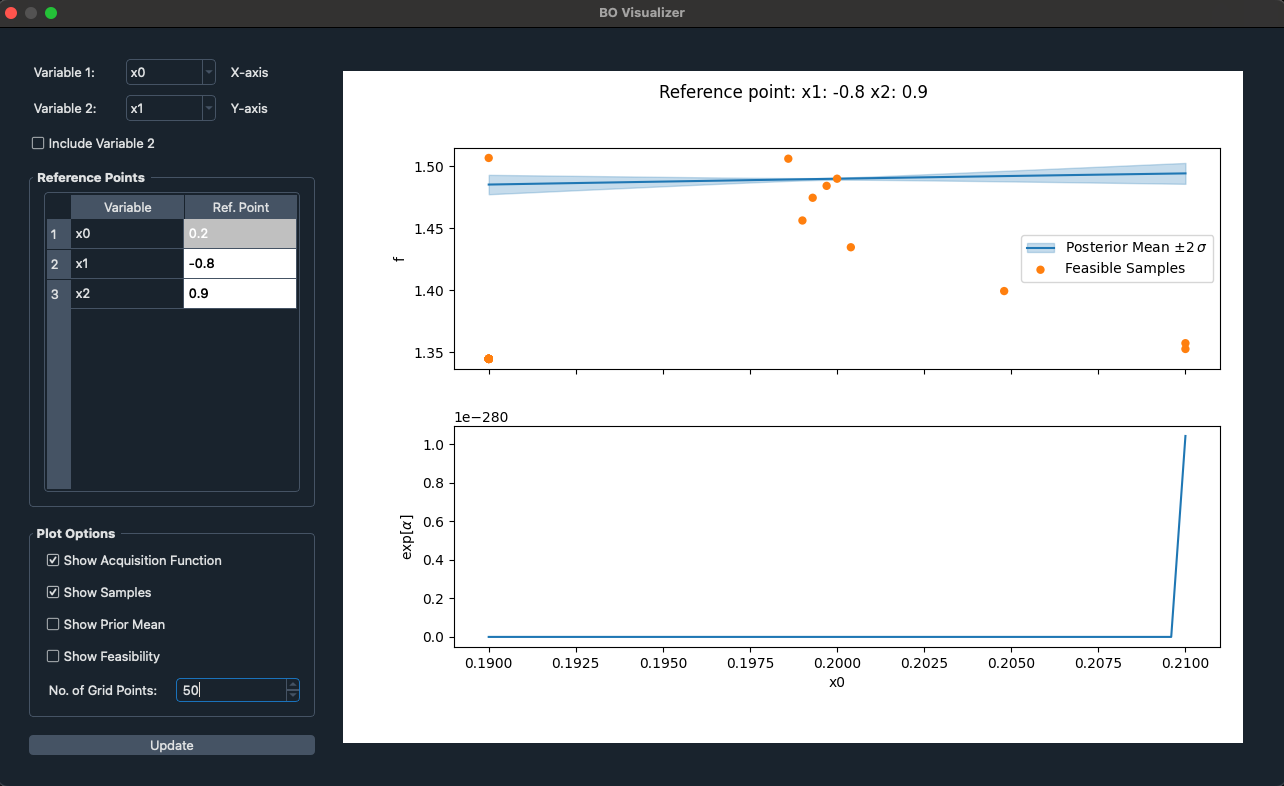
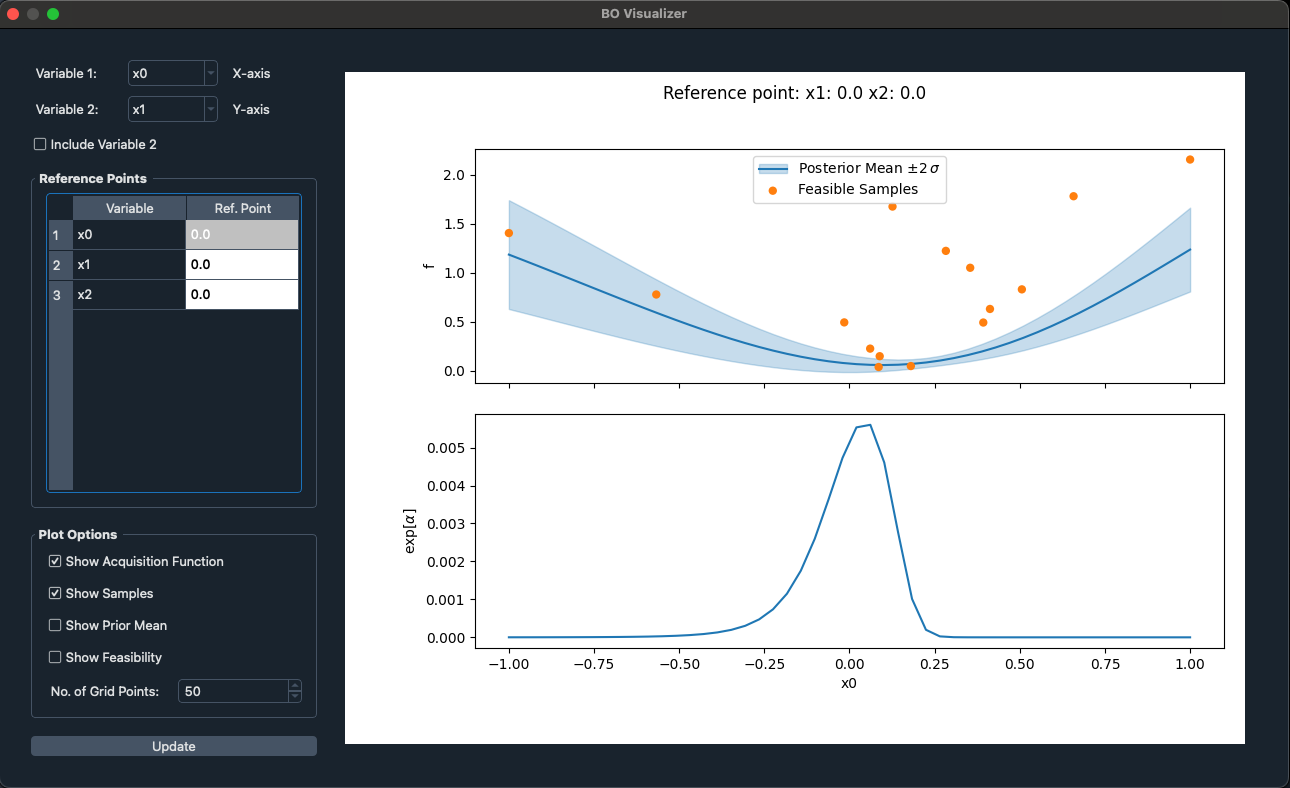
Expanded variable ranges to show curvature within images

diff --git a/src/badger/gui/default/components/bo_visualizer/docs/README.md b/src/badger/gui/default/components/bo_visualizer/docs/README.md
@@ -27,7 +27,7 @@ Description:
     Note: not all extensions are applicable to every optimization configuration
 3 - Access the BO Visualization extension by clicking the corresponding option within the Badger extensions palette
 
-![bo extension window](./images/bo-extension-initial.png)
+![bo extension window](./images/bo-window.png)
 
 Description:
 
